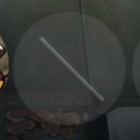
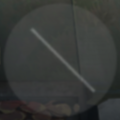
Improve accuracy of matching

diff --git a/recognize.py b/recognize.py
@@ -446,8 +446,8 @@ def load_ref_images(ref_dir="images"):
             int(img.shape[1] * 0.18) : int(img.shape[1] * 0.82),  # 宽度与高度一致
         ]
         # 调整参考图像大小以匹配目标图像
-        ref_resized = cv2.resize(img, (80, 80))
-        ref_resized = ref_resized[0:70, :]
+        ref_resized = cv2.resize(img, (75, 75))
+        ref_resized = ref_resized[0:65, :]
 
         if intelligent_workers_debug:  # 如果处于debug模式
             # 存储模板图像用于debug
